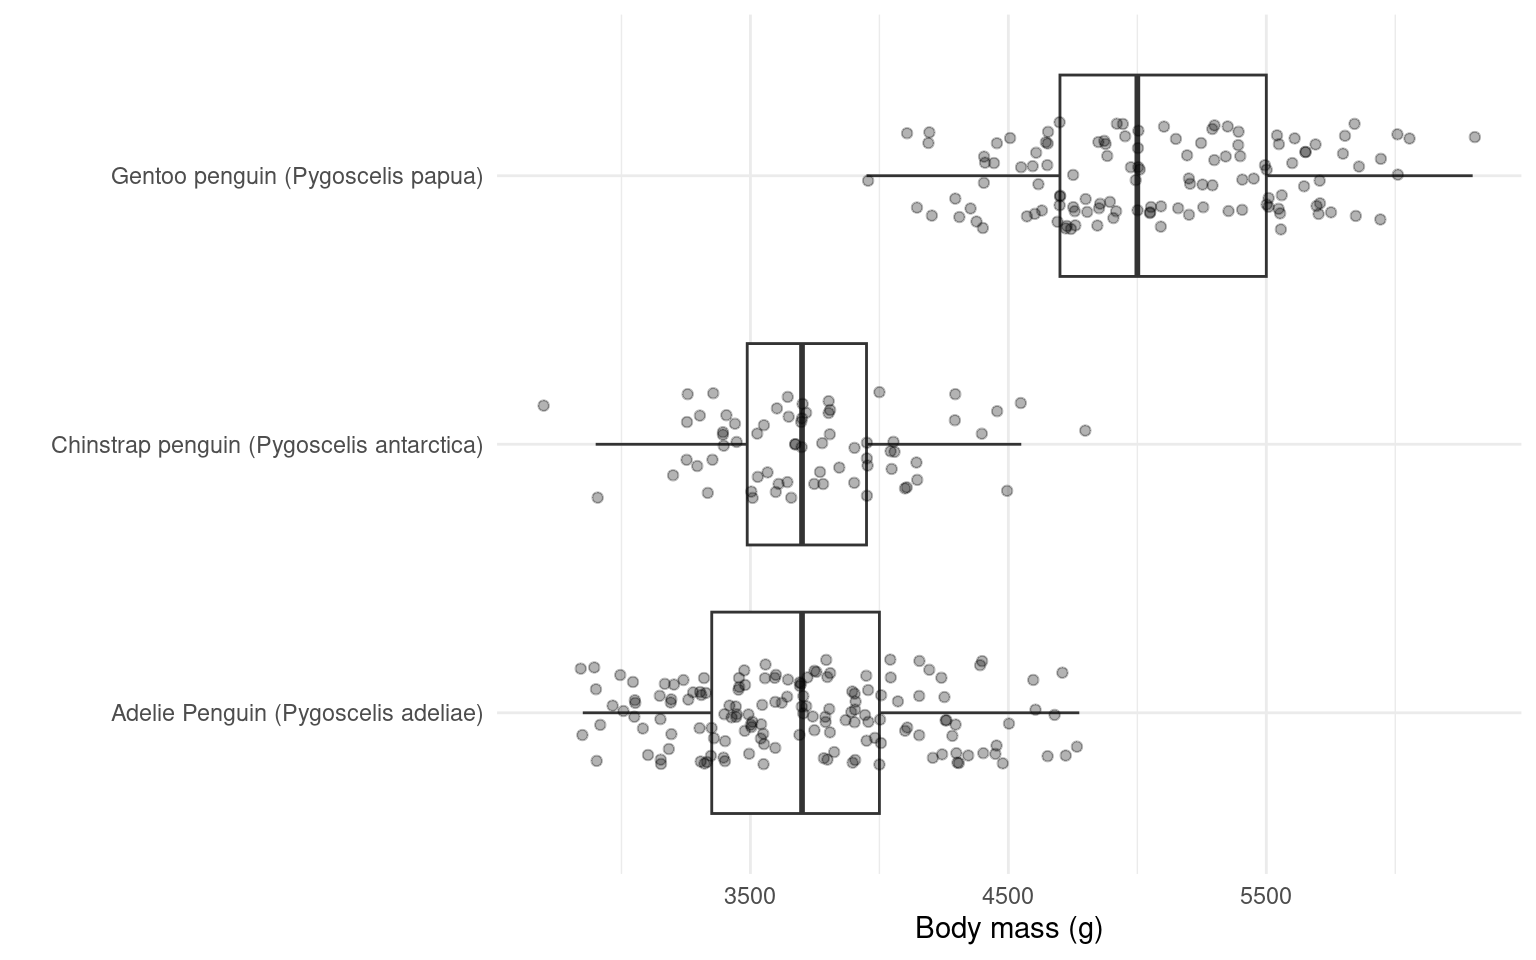
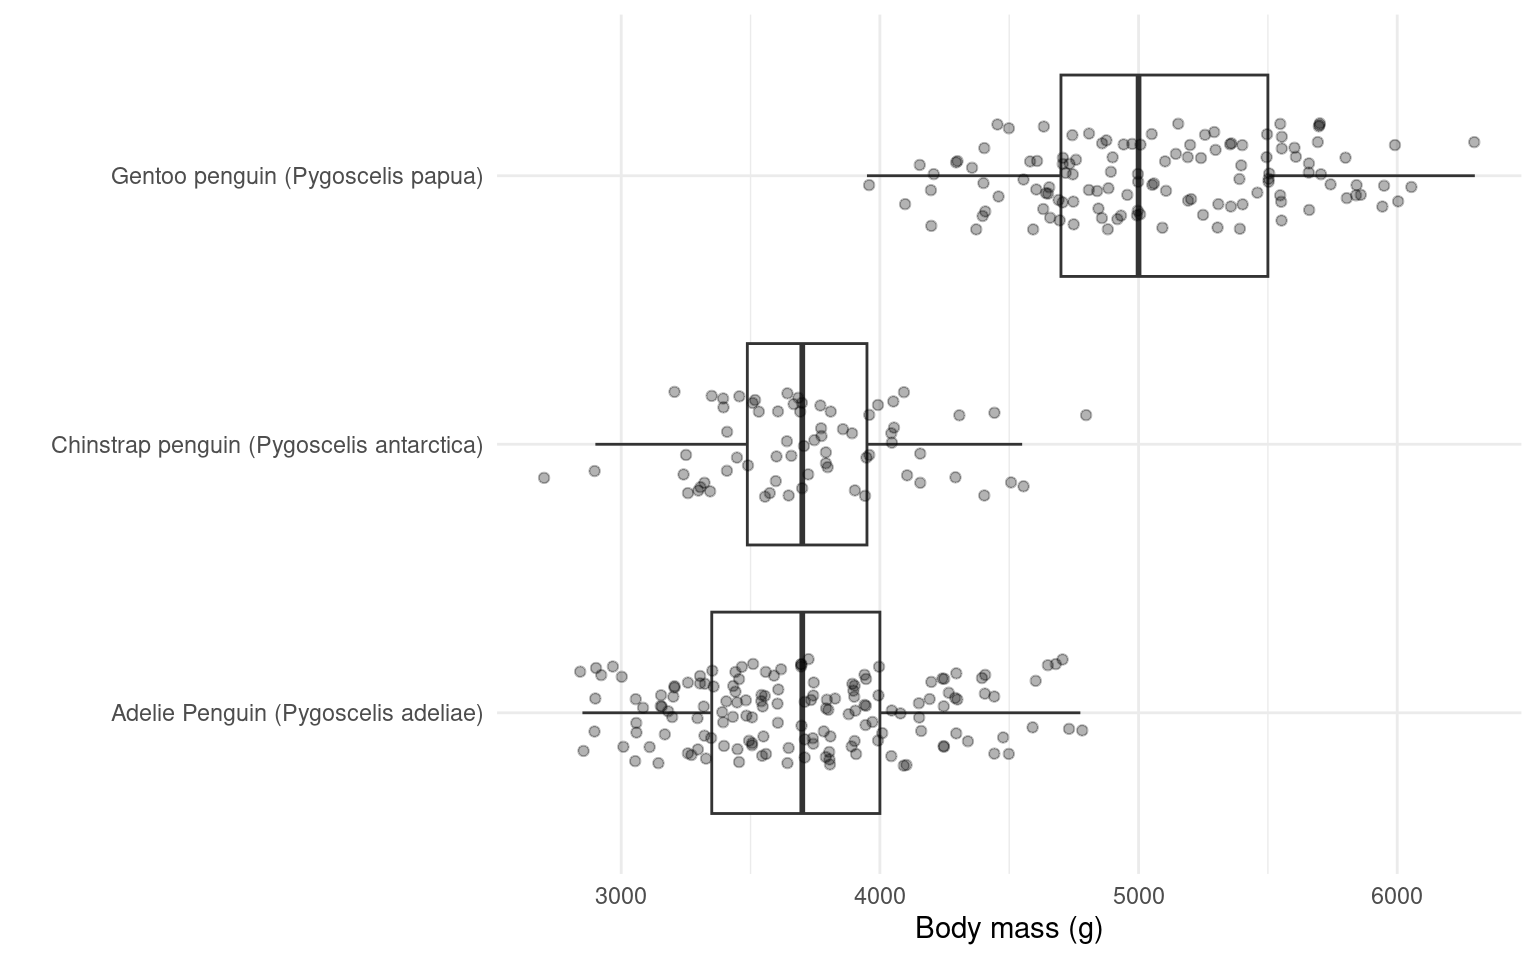
Updated layout

diff --git a/docs/missing-values.html b/docs/missing-values.html
@@ -519,7 +519,7 @@ pre > code.sourceCode > span > a:first-child::before { text-decoration: underlin
 <div id="callout-1" class="callout-1-contents callout-collapse collapse">
 <div class="callout-body-container callout-body">
 <div class="cell" data-layout-align="center">
-<div class="code-copy-outer-scaffold"><div class="sourceCode cell-code" id="cb1"><pre class="sourceCode numberSource r number-lines code-with-copy"><code class="sourceCode r"><span id="cb1-1"><a href="#cb1-1"></a>penguins_clean_names <span class="ot">&lt;-</span> <span class="fu">readRDS</span>(<span class="fu">url</span>(<span class="st">"https://UEABIO/5023B/raw/refs/heads/2026/files/penguin_clean_names.RDS"</span>))</span></code></pre></div><button title="Copy to Clipboard" class="code-copy-button"><i class="bi"></i></button></div>
+<div class="code-copy-outer-scaffold"><div class="sourceCode cell-code" id="cb1"><pre class="sourceCode numberSource r number-lines code-with-copy"><code class="sourceCode r"><span id="cb1-1"><a href="#cb1-1"></a>penguins_clean_names <span class="ot">&lt;-</span> <span class="fu">readRDS</span>(<span class="fu">url</span>(<span class="st">"https://github.com/UEABIO/5023B/raw/refs/heads/2026/files/penguins.RDS"</span>))<span class="st">"))</span></span></code></pre></div><button title="Copy to Clipboard" class="code-copy-button"><i class="bi"></i></button></div>
 </div>
 </div>
 </div>
@@ -533,9 +533,10 @@ pre > code.sourceCode > span > a:first-child::before { text-decoration: underlin
 <li><label><input type="checkbox">Run this command in your console:</label></li>
 </ul>
 <div class="cell" data-layout-align="center">
-<div class="code-copy-outer-scaffold"><div class="sourceCode cell-code" id="cb2"><pre class="sourceCode numberSource r number-lines code-with-copy"><code class="sourceCode r"><span id="cb2-1"><a href="#cb2-1"></a>penguins_clean_names <span class="sc">|&gt;</span> </span>
-<span id="cb2-2"><a href="#cb2-2"></a>  <span class="fu">group_by</span>(species) <span class="sc">|&gt;</span> </span>
-<span id="cb2-3"><a href="#cb2-3"></a>  <span class="fu">summarise</span>(<span class="at">mean =</span> <span class="fu">mean</span>(body_mass_g))</span></code></pre></div><button title="Copy to Clipboard" class="code-copy-button"><i class="bi"></i></button></div>
+<div class="code-copy-outer-scaffold"><div class="sourceCode cell-code" id="cb2"><pre class="sourceCode numberSource r number-lines code-with-copy"><code class="sourceCode r"><span id="cb2-1"><a href="#cb2-1"></a><span class="fu">library</span>(tidyverse)</span>
+<span id="cb2-2"><a href="#cb2-2"></a>penguins_clean_names <span class="sc">|&gt;</span> </span>
+<span id="cb2-3"><a href="#cb2-3"></a>  <span class="fu">group_by</span>(species) <span class="sc">|&gt;</span> </span>
+<span id="cb2-4"><a href="#cb2-4"></a>  <span class="fu">summarise</span>(<span class="at">mean =</span> <span class="fu">mean</span>(body_mass_g))</span></code></pre></div><button title="Copy to Clipboard" class="code-copy-button"><i class="bi"></i></button></div>
 <div class="cell-output-display">
 <div class="kable-table">
 <table class="caption-top table table-sm table-striped small">
@@ -655,7 +656,8 @@ Warning
 </div>
 <div id="tabset-1-2" class="tab-pane" role="tabpanel" aria-labelledby="tabset-1-2-tab">
 <div class="cell" data-layout-align="center">
-<div class="code-copy-outer-scaffold"><div class="sourceCode cell-code" id="cb5"><pre class="sourceCode numberSource r number-lines code-with-copy"><code class="sourceCode r"><span id="cb5-1"><a href="#cb5-1"></a>skimr<span class="sc">::</span><span class="fu">skim</span>(penguins_clean_names)</span></code></pre></div><button title="Copy to Clipboard" class="code-copy-button"><i class="bi"></i></button></div>
+<div class="code-copy-outer-scaffold"><div class="sourceCode cell-code" id="cb5"><pre class="sourceCode numberSource r number-lines code-with-copy"><code class="sourceCode r"><span id="cb5-1"><a href="#cb5-1"></a><span class="fu">library</span>(skimr)</span>
+<span id="cb5-2"><a href="#cb5-2"></a>skimr<span class="sc">::</span><span class="fu">skim</span>(penguins_clean_names)</span></code></pre></div><button title="Copy to Clipboard" class="code-copy-button"><i class="bi"></i></button></div>
 <div class="cell-output-display">
 <table class="caption-top table table-sm table-striped small">
 <caption>Data summary</caption>
@@ -950,7 +952,8 @@ Warning
 </div>
 <div id="tabset-1-3" class="tab-pane" role="tabpanel" aria-labelledby="tabset-1-3-tab">
 <div class="cell" data-layout-align="center">
-<div class="code-copy-outer-scaffold"><div class="sourceCode cell-code" id="cb6"><pre class="sourceCode numberSource r number-lines code-with-copy"><code class="sourceCode r"><span id="cb6-1"><a href="#cb6-1"></a>naniar<span class="sc">::</span><span class="fu">vis_miss</span>(penguins_clean_names)</span></code></pre></div><button title="Copy to Clipboard" class="code-copy-button"><i class="bi"></i></button></div>
+<div class="code-copy-outer-scaffold"><div class="sourceCode cell-code" id="cb6"><pre class="sourceCode numberSource r number-lines code-with-copy"><code class="sourceCode r"><span id="cb6-1"><a href="#cb6-1"></a><span class="fu">library</span>(naniar)</span>
+<span id="cb6-2"><a href="#cb6-2"></a>naniar<span class="sc">::</span><span class="fu">vis_miss</span>(penguins_clean_names)</span></code></pre></div><button title="Copy to Clipboard" class="code-copy-button"><i class="bi"></i></button></div>
 <div class="cell-output-display">
 <div class="quarto-figure quarto-figure-center">
 <figure class="figure"><p><img src="missing-values_files/figure-html/unnamed-chunk-6-1.png" class="img-fluid quarto-figure quarto-figure-center figure-img" style="width:100.0%"></p>

diff --git a/docs/duplicates.html b/docs/duplicates.html
@@ -514,7 +514,7 @@ pre > code.sourceCode > span > a:first-child::before { text-decoration: underlin
 <div id="callout-1" class="callout-1-contents callout-collapse collapse">
 <div class="callout-body-container callout-body">
 <div class="cell" data-layout-align="center">
-<div class="code-copy-outer-scaffold"><div class="sourceCode cell-code" id="cb1"><pre class="sourceCode numberSource r number-lines code-with-copy"><code class="sourceCode r"><span id="cb1-1"><a href="#cb1-1"></a>penguins_clean_names <span class="ot">&lt;-</span> <span class="fu">readRDS</span>(<span class="fu">url</span>(<span class="st">"https://UEABIO/5023B/raw/refs/heads/2026/files/penguin_clean_names.RDS"</span>))</span></code></pre></div><button title="Copy to Clipboard" class="code-copy-button"><i class="bi"></i></button></div>
+<div class="code-copy-outer-scaffold"><div class="sourceCode cell-code" id="cb1"><pre class="sourceCode numberSource r number-lines code-with-copy"><code class="sourceCode r"><span id="cb1-1"><a href="#cb1-1"></a>penguins_clean_names <span class="ot">&lt;-</span> <span class="fu">readRDS</span>(<span class="fu">url</span>(<span class="st">"https://github.com/UEABIO/5023B/raw/refs/heads/2026/files/penguins.RDS"</span>))</span></code></pre></div><button title="Copy to Clipboard" class="code-copy-button"><i class="bi"></i></button></div>
 </div>
 </div>
 </div>
@@ -529,11 +529,12 @@ pre > code.sourceCode > span > a:first-child::before { text-decoration: underlin
 <div class="tab-content">
 <div id="tabset-1-1" class="tab-pane active" role="tabpanel" aria-labelledby="tabset-1-1-tab">
 <div class="cell" data-layout-align="center">
-<div class="code-copy-outer-scaffold"><div class="sourceCode cell-code" id="cb2"><pre class="sourceCode numberSource r number-lines code-with-copy"><code class="sourceCode r"><span id="cb2-1"><a href="#cb2-1"></a><span class="co"># check for whole duplicate </span></span>
-<span id="cb2-2"><a href="#cb2-2"></a><span class="co"># rows in the data</span></span>
-<span id="cb2-3"><a href="#cb2-3"></a>penguins_clean_names <span class="sc">|&gt;</span> </span>
-<span id="cb2-4"><a href="#cb2-4"></a>  <span class="fu">filter</span>(<span class="fu">duplicated</span>(<span class="fu">across</span>(<span class="fu">everything</span>())))</span>
-<span id="cb2-5"><a href="#cb2-5"></a>  <span class="fu">sum</span>() </span></code></pre></div><button title="Copy to Clipboard" class="code-copy-button"><i class="bi"></i></button></div>
+<div class="code-copy-outer-scaffold"><div class="sourceCode cell-code" id="cb2"><pre class="sourceCode numberSource r number-lines code-with-copy"><code class="sourceCode r"><span id="cb2-1"><a href="#cb2-1"></a><span class="fu">library</span>(tidyverse)</span>
+<span id="cb2-2"><a href="#cb2-2"></a><span class="co"># check for whole duplicate </span></span>
+<span id="cb2-3"><a href="#cb2-3"></a><span class="co"># rows in the data</span></span>
+<span id="cb2-4"><a href="#cb2-4"></a>penguins_clean_names <span class="sc">|&gt;</span> </span>
+<span id="cb2-5"><a href="#cb2-5"></a>  <span class="fu">filter</span>(<span class="fu">duplicated</span>(<span class="fu">across</span>(<span class="fu">everything</span>())))</span>
+<span id="cb2-6"><a href="#cb2-6"></a>  <span class="fu">sum</span>() </span></code></pre></div><button title="Copy to Clipboard" class="code-copy-button"><i class="bi"></i></button></div>
 </div>
 <pre><code>[1] 0</code></pre>
 </div>

diff --git a/docs/dates.html b/docs/dates.html
@@ -535,7 +535,7 @@ div.csl-indent {
 <div id="callout-1" class="callout-1-contents callout-collapse collapse">
 <div class="callout-body-container callout-body">
 <div class="cell" data-layout-align="center">
-<div class="code-copy-outer-scaffold"><div class="sourceCode cell-code" id="cb1"><pre class="sourceCode numberSource r number-lines code-with-copy"><code class="sourceCode r"><span id="cb1-1"><a href="#cb1-1"></a>penguins_clean_names <span class="ot">&lt;-</span> <span class="fu">readRDS</span>(<span class="fu">url</span>(<span class="st">"https://UEABIO/5023B/raw/refs/heads/2026/files/penguin_clean_names.RDS"</span>))</span></code></pre></div><button title="Copy to Clipboard" class="code-copy-button"><i class="bi"></i></button></div>
+<div class="code-copy-outer-scaffold"><div class="sourceCode cell-code" id="cb1"><pre class="sourceCode numberSource r number-lines code-with-copy"><code class="sourceCode r"><span id="cb1-1"><a href="#cb1-1"></a>penguins_clean_names <span class="ot">&lt;-</span> <span class="fu">readRDS</span>(<span class="fu">url</span>(<span class="st">"https://github.com/UEABIO/5023B/raw/refs/heads/2026/files/penguins.RDS"</span>))</span></code></pre></div><button title="Copy to Clipboard" class="code-copy-button"><i class="bi"></i></button></div>
 </div>
 </div>
 </div>
@@ -551,7 +551,8 @@ div.csl-indent {
 </ul>
 <p>This variability makes it difficult to tell our software how to read the information, luckily we can use the functions in the <code>lubridate</code> package.</p>
 <div class="cell" data-layout-align="center">
-<div class="code-copy-outer-scaffold"><div class="sourceCode cell-code" id="cb2"><pre class="sourceCode numberSource r number-lines code-with-copy"><code class="sourceCode r"><span id="cb2-1"><a href="#cb2-1"></a><span class="fu">library</span>(lubridate)</span></code></pre></div><button title="Copy to Clipboard" class="code-copy-button"><i class="bi"></i></button></div>
+<div class="code-copy-outer-scaffold"><div class="sourceCode cell-code" id="cb2"><pre class="sourceCode numberSource r number-lines code-with-copy"><code class="sourceCode r"><span id="cb2-1"><a href="#cb2-1"></a><span class="fu">library</span>(lubridate)</span>
+<span id="cb2-2"><a href="#cb2-2"></a><span class="co"># library(tidyverse)</span></span></code></pre></div><button title="Copy to Clipboard" class="code-copy-button"><i class="bi"></i></button></div>
 </div>
 <div class="callout callout-style-default callout-warning callout-titled">
 <div class="callout-header d-flex align-content-center">
@@ -674,8 +675,8 @@ Caused by warning:
 <ul class="task-list">
 <li><label><input type="checkbox"><strong>Question</strong> What is the appropriate function from the above to use on the <code>date_egg</code> variable in the penguins dataset?</label></li>
 </ul>
-<div id="radio_DJSPGNFKMQ" class="webex-radiogroup">
-<label><input type="radio" autocomplete="off" name="radio_DJSPGNFKMQ" value=""><span>ymd()</span></label><label><input type="radio" autocomplete="off" name="radio_DJSPGNFKMQ" value=""><span>ydm()</span></label><label><input type="radio" autocomplete="off" name="radio_DJSPGNFKMQ" value=""><span>mdy()</span></label><label><input type="radio" autocomplete="off" name="radio_DJSPGNFKMQ" value="answer"><span>dmy()</span></label>
+<div id="radio_ERANEAYBYN" class="webex-radiogroup">
+<label><input type="radio" autocomplete="off" name="radio_ERANEAYBYN" value=""><span>ymd()</span></label><label><input type="radio" autocomplete="off" name="radio_ERANEAYBYN" value=""><span>ydm()</span></label><label><input type="radio" autocomplete="off" name="radio_ERANEAYBYN" value=""><span>mdy()</span></label><label><input type="radio" autocomplete="off" name="radio_ERANEAYBYN" value="answer"><span>dmy()</span></label>
 </div>
 <div class="webex-solution">
 <button>

diff --git a/docs/strings.html b/docs/strings.html
@@ -535,7 +535,7 @@ pre > code.sourceCode > span > a:first-child::before { text-decoration: underlin
 <div id="callout-1" class="callout-1-contents callout-collapse collapse">
 <div class="callout-body-container callout-body">
 <div class="cell" data-layout-align="center">
-<div class="code-copy-outer-scaffold"><div class="sourceCode cell-code" id="cb1"><pre class="sourceCode numberSource r number-lines code-with-copy"><code class="sourceCode r"><span id="cb1-1"><a href="#cb1-1"></a>penguins_clean_names <span class="ot">&lt;-</span> <span class="fu">readRDS</span>(<span class="fu">url</span>(<span class="st">"https://UEABIO/5023B/raw/refs/heads/2026/files/penguin_clean_names.RDS"</span>))</span></code></pre></div><button title="Copy to Clipboard" class="code-copy-button"><i class="bi"></i></button></div>
+<div class="code-copy-outer-scaffold"><div class="sourceCode cell-code" id="cb1"><pre class="sourceCode numberSource r number-lines code-with-copy"><code class="sourceCode r"><span id="cb1-1"><a href="#cb1-1"></a>penguins_clean_names <span class="ot">&lt;-</span> <span class="fu">readRDS</span>(<span class="fu">url</span>(<span class="st">"https://github.com/UEABIO/5023B/raw/refs/heads/2026/files/penguins.RDS"</span>))</span></code></pre></div><button title="Copy to Clipboard" class="code-copy-button"><i class="bi"></i></button></div>
 </div>
 </div>
 </div>
@@ -578,7 +578,8 @@ Note
 <span class="header-section-number">3.3.1</span> Trim</h3>
 <p>Trim whitespace on either side of a string.</p>
 <div class="cell" data-layout-align="center">
-<div class="code-copy-outer-scaffold"><div class="sourceCode cell-code" id="cb2"><pre class="sourceCode numberSource r number-lines code-with-copy"><code class="sourceCode r"><span id="cb2-1"><a href="#cb2-1"></a><span class="fu">str_trim</span>(<span class="st">" Adelie Penguin (Pygoscelis adeliae) "</span>)</span></code></pre></div><button title="Copy to Clipboard" class="code-copy-button"><i class="bi"></i></button></div>
+<div class="code-copy-outer-scaffold"><div class="sourceCode cell-code" id="cb2"><pre class="sourceCode numberSource r number-lines code-with-copy"><code class="sourceCode r"><span id="cb2-1"><a href="#cb2-1"></a><span class="fu">library</span>(tidyverse)</span>
+<span id="cb2-2"><a href="#cb2-2"></a><span class="fu">str_trim</span>(<span class="st">" Adelie Penguin (Pygoscelis adeliae) "</span>)</span></code></pre></div><button title="Copy to Clipboard" class="code-copy-button"><i class="bi"></i></button></div>
 <div class="cell-output cell-output-stdout">
 <pre><code>[1] "Adelie Penguin (Pygoscelis adeliae)"</code></pre>
 </div>

diff --git a/docs/03-github.html b/docs/03-github.html
@@ -1150,7 +1150,7 @@ site: Field site location
 <span class="header-section-number">1.6.1</span> Download the Dataset</h3>
 <div class="cell" data-layout-align="center">
 <div class="cell-output-display">
-<a href="https://raw.githubusercontent.com/Philip-Leftwich/Oct-Intro-Analytics/refs/heads/2026/files/mosquito_egg_data.csv">
+<a href="https://raw.githubusercontent.com/UEABIO/5023B/refs/heads/2026/files/mosquito_egg_data.csv">
 <button class="btn btn-success"><i class="fa fa-save"></i> Raw Mosquito Egg Data</button>
 </a>
 </div>
@@ -1431,7 +1431,7 @@ Commit with descriptive message
 <li><p><label><input type="checkbox">Initial exploration script created</label></p></li>
 <li><p><label><input type="checkbox">Can see all commits on GitHub</label></p></li>
 </ul>
-<p><strong>See</strong> <span class="citation" data-cites="week-1">(<a href="references.html#ref-week-1" role="doc-biblioref"><strong>week-1?</strong></a>)</span> <strong>for tasks to complete before our next workshop</strong></p>
+<p><strong>See</strong> <a href="week-1.html" class="quarto-xref"><span>Chapter 2</span></a> <strong>for tasks to complete before our next workshop</strong></p>
 
 
 </section></main><!-- /main --><script>

diff --git a/docs/week-2.html b/docs/week-2.html
@@ -668,14 +668,14 @@ Important
 </ul>
 </li>
 <li>
-<p><label><input type="checkbox">OPTIONAL: Try and implement your partner’s code</label></p>
+<p><label><input type="checkbox">Try and implement your partner’s code</label></p>
 <ul>
 <li><p>If you tackled a similar problem, decide on the best approach</p></li>
 <li><p>If a different fix was identified, implement this in your workflow</p></li>
 <li><p>When finished write a brief commit message explaining the changes</p></li>
-<li><p>Push to Github</p></li>
 </ul>
 </li>
+<li><p><label><input type="checkbox">Push to Github</label></p></li>
 </ul>
 
 

diff --git a/docs/numeric-plausibility.html b/docs/numeric-plausibility.html
@@ -515,7 +515,7 @@ pre > code.sourceCode > span > a:first-child::before { text-decoration: underlin
 <div id="callout-1" class="callout-1-contents callout-collapse collapse">
 <div class="callout-body-container callout-body">
 <div class="cell" data-layout-align="center">
-<div class="code-copy-outer-scaffold"><div class="sourceCode cell-code" id="cb1"><pre class="sourceCode numberSource r number-lines code-with-copy"><code class="sourceCode r"><span id="cb1-1"><a href="#cb1-1"></a>penguins_clean_names <span class="ot">&lt;-</span> <span class="fu">readRDS</span>(<span class="fu">url</span>(<span class="st">"https://UEABIO/5023B/raw/refs/heads/2026/files/penguin_clean_names.RDS"</span>))</span></code></pre></div><button title="Copy to Clipboard" class="code-copy-button"><i class="bi"></i></button></div>
+<div class="code-copy-outer-scaffold"><div class="sourceCode cell-code" id="cb1"><pre class="sourceCode numberSource r number-lines code-with-copy"><code class="sourceCode r"><span id="cb1-1"><a href="#cb1-1"></a>penguins_clean_names <span class="ot">&lt;-</span> <span class="fu">readRDS</span>(<span class="fu">url</span>(<span class="st">"https://github.com/UEABIO/5023B/raw/refs/heads/2026/files/penguins.RDS"</span>))</span></code></pre></div><button title="Copy to Clipboard" class="code-copy-button"><i class="bi"></i></button></div>
 </div>
 </div>
 </div>

diff --git a/docs/week-1.html b/docs/week-1.html
@@ -477,7 +477,7 @@ ul.task-list li input[type="checkbox"] {
 
 <header id="title-block-header" class="quarto-title-block default"><nav class="quarto-page-breadcrumbs quarto-title-breadcrumbs d-none d-lg-block" aria-label="breadcrumb"><ol class="breadcrumb"><li class="breadcrumb-item"><a href="./03-github.html">Reproducible Research</a></li><li class="breadcrumb-item"><a href="./week-1.html"><span class="chapter-number">2</span>&nbsp; <span class="chapter-title">Week 1</span></a></li></ol></nav>
 <div class="quarto-title">
-<h1 class="title"><span id="week-1" class="quarto-section-identifier"><span class="chapter-number">2</span>&nbsp; <span class="chapter-title">Week 1</span></span></h1>
+<h1 class="title"><span id="sec-week-1" class="quarto-section-identifier"><span class="chapter-number">2</span>&nbsp; <span class="chapter-title">Week 1</span></span></h1>
 </div>
 
 